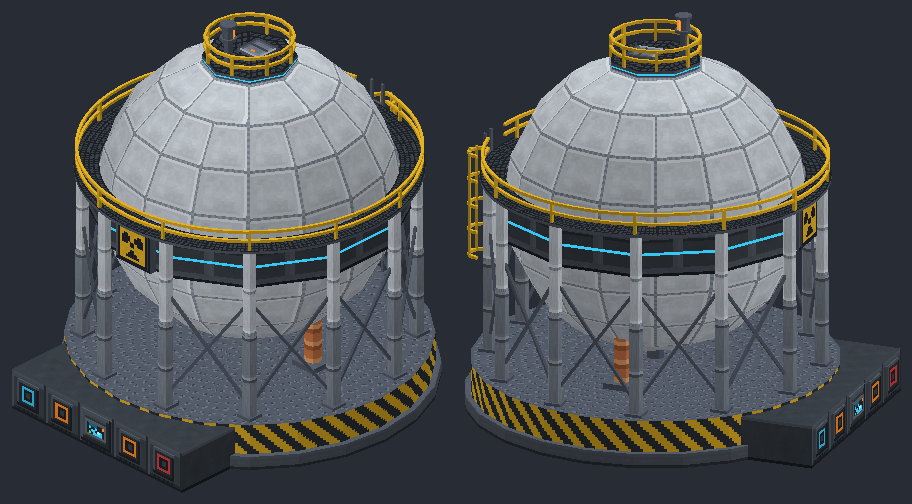
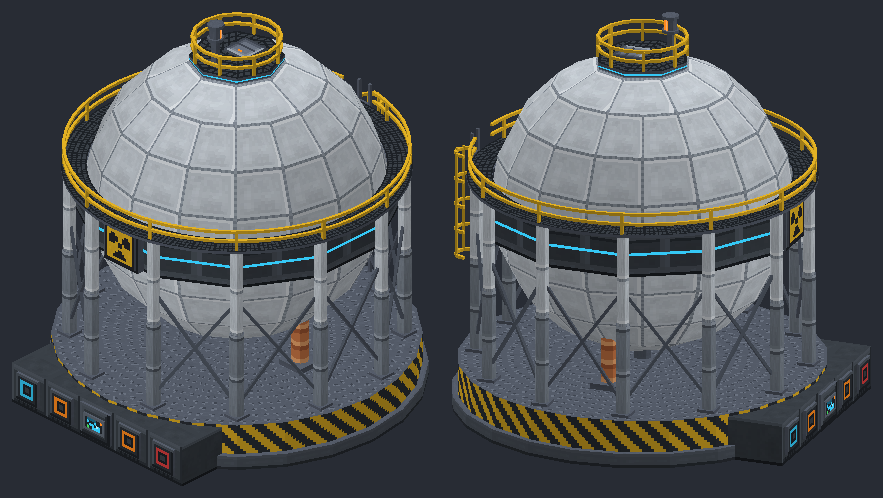
Breeder console: pulled back to just ahead of the plinth, ports a pixel proud again

Changed region(s): [[0.0, 0.0, 1.0, 0.9639]]

diff --git a/art/tools/breeder_concept.py b/art/tools/breeder_concept.py
@@ -142,19 +142,21 @@ for k, (n, n_in) in enumerate(RINGS):
 d.cylinder('hazard', 5, 16, PLINTH_R, n=RIM)
 band(0, 5, PLINTH_R + 2, n=RIM)
 d.annulus('breeder_fitting', 5, PLINTH_R, PLINTH_R + 2, n=RIM)
-# The console (north), in front of the plinth's lip: five cells, two blocks deep, on the grid so
-# its panels show whole, a port centred on each and the control core's screen in the middle one.
+# The console (north): five cells wide on the grid, so its panels show whole, a port centred on
+# each and the control core's screen in the middle one. Its front stands just ahead of the plinth's
+# lip (z 8 at the middle), no further; its top and ends are plain, so their depth cuts nothing.
 # As you face it (looking south), your left is east (larger x): inputs there, outputs to the west.
-d.box('breeder_console_side', 2 * B, 0, 0, 7 * B, 15, 2 * B, top='breeder_graphite', skip=('north', 'south', 'down'))
-d.box('breeder_console', 2 * B, 0, 0, 7 * B, 15, 2 * B, skip=('south', 'east', 'west', 'up', 'down'))
+FRONT_Z = 6
+d.box('breeder_console_side', 2 * B, 0, FRONT_Z, 7 * B, 15, 2 * B, top='breeder_graphite', skip=('north', 'south', 'down'))
+d.box('breeder_console', 2 * B, 0, FRONT_Z, 7 * B, 15, 2 * B, skip=('south', 'east', 'west', 'up', 'down'))
 PORTS = [('port_energy', 2), ('port_fuel', 3), ('core', 4), ('port_fuel', 5), ('port_coolant', 6)]
 for kind, cell in PORTS:
     x = cell * B
     if kind == 'core':
-        d.box('breeder_fitting', x + 1, 2, -0.5, x + 15, 14, 0, decals={'north': 'breeder_bezel'}, skip=('south',))
-        d.box('breeder_fitting', x + 3, 5, -0.75, x + 13, 11, -0.5, decals={'north': 'screen'}, skip=('south',))
+        d.box('breeder_fitting', x + 1, 2, FRONT_Z - 1, x + 15, 14, FRONT_Z, decals={'north': 'breeder_bezel'}, skip=('south',))
+        d.box('breeder_fitting', x + 3, 5, FRONT_Z - 1.5, x + 13, 11, FRONT_Z - 1, decals={'north': 'screen'}, skip=('south',))
     else:
-        d.box('breeder_fitting', x + 3, 3, -0.5, x + 13, 13, 0, decals={'north': kind}, skip=('south',))
+        d.box('breeder_fitting', x + 3, 3, FRONT_Z - 1, x + 13, 13, FRONT_Z, decals={'north': kind}, skip=('south',))
 
 # ---------------------------------------------------------------- the sphere, in latitude bands
 def lat_point(lat):
